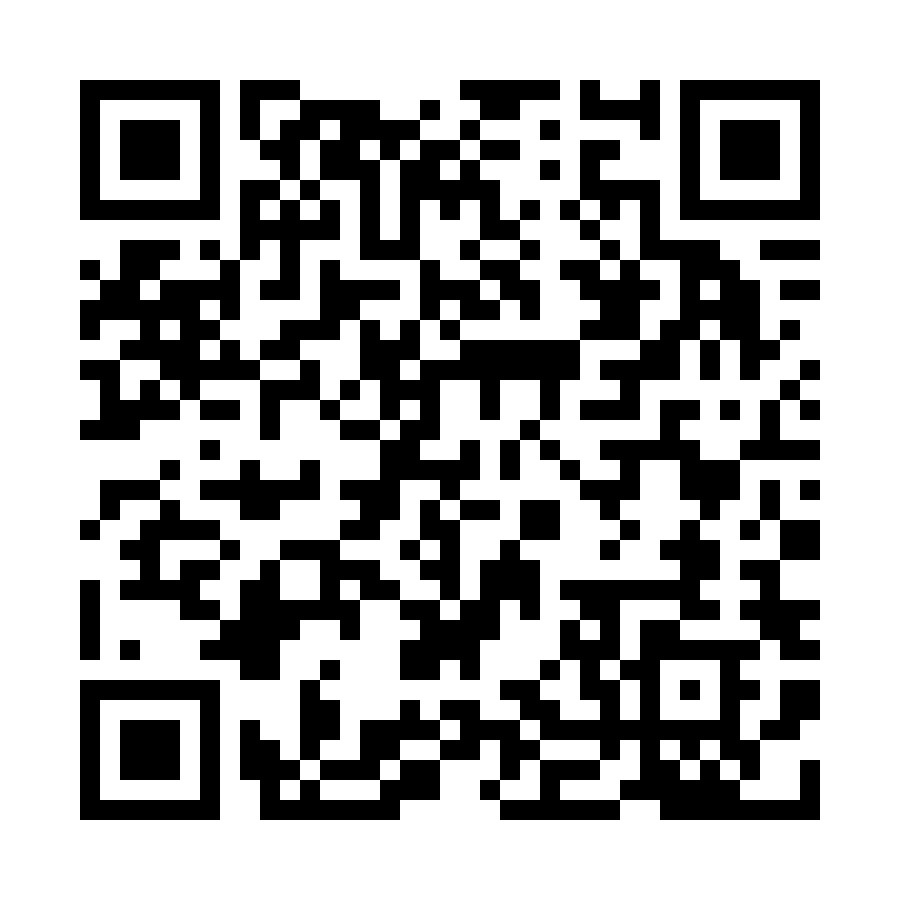
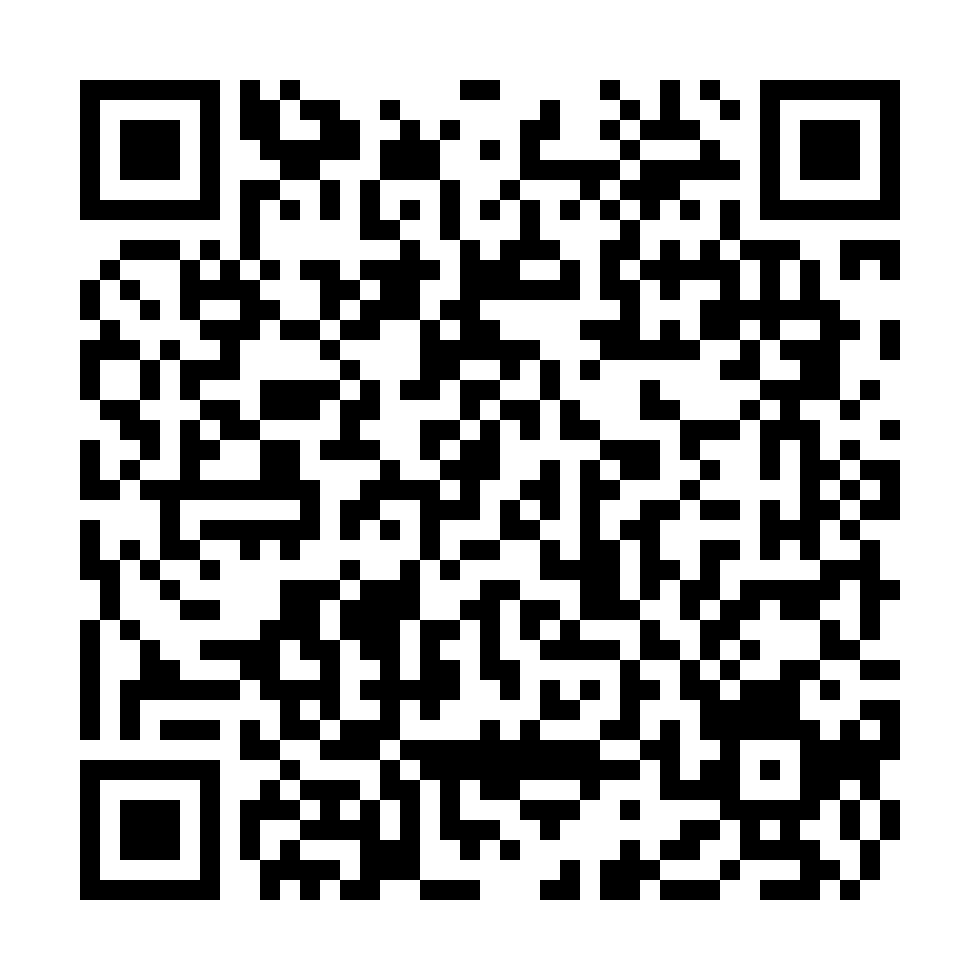
Serve optimized Android APK variants

diff --git a/resources/views/app-download.blade.php b/resources/views/app-download.blade.php
@@ -224,6 +224,18 @@
         .button:hover { transform: translateY(-2px); background: var(--blue-dark); }
         .platform-card.ios .button { background: var(--ios); box-shadow: 0 15px 28px rgba(23, 25, 35, .16); }
 
+        .button.secondary {
+            min-height: 48px;
+            margin-top: 12px;
+            background: transparent;
+            color: var(--blue-dark);
+            border: 1px solid rgba(36, 56, 218, .24);
+            box-shadow: none;
+            font-size: 14px;
+        }
+
+        .button.secondary:hover { background: rgba(36, 56, 218, .07); }
+
         .direct-link {
             margin-top: 18px !important;
             font-size: 13px;
@@ -299,15 +311,18 @@
                 <span class="status">Доступно · v{{ $androidVersion }}</span>
             </div>
             <h2>Android</h2>
-            <p>Завантажте офіційний APK безпосередньо із захищеного сервера ОМЦ.</p>
+            <p>Компактна версія для сучасних телефонів завантажується швидше. Універсальна збірка залишається для Nox і старіших пристроїв.</p>
 
-            <a class="qr-box" href="{{ $androidDownloadUrl }}" aria-label="Завантажити ОМЦ CRM для Android">
+            <a class="qr-box" href="{{ $androidRecommendedUrl }}" aria-label="Завантажити компактну версію ОМЦ CRM для Android">
                 <img src="{{ asset('images/qr/omc-android-download-qr-square.png') }}" alt="QR-код завантаження ОМЦ CRM для Android">
             </a>
 
-            <a class="button" href="{{ $androidDownloadUrl }}" download>
+            <a class="button" href="{{ $androidRecommendedUrl }}" download>
                 <span aria-hidden="true">↓</span>
-                Завантажити для Android
+                Android ARM64 · рекомендовано
+            </a>
+            <a class="button secondary" href="{{ $androidDownloadUrl }}" download>
+                Універсальна версія · Nox
             </a>
             <p class="direct-link">Постійне посилання:<a href="{{ $androidDownloadUrl }}">{{ $androidDownloadUrl }}</a></p>
         </article>

diff --git a/app/Http/Controllers/AndroidAppDownloadController.php b/app/Http/Controllers/AndroidAppDownloadController.php
@@ -2,19 +2,41 @@
 
 namespace App\Http\Controllers;
 
+use Illuminate\Http\RedirectResponse;
+use Illuminate\Http\Request;
 use Illuminate\Http\Response;
 use Symfony\Component\HttpFoundation\BinaryFileResponse;
 
 class AndroidAppDownloadController extends Controller
 {
-    public function __invoke(): BinaryFileResponse|Response
+    public function __invoke(Request $request): BinaryFileResponse|RedirectResponse|Response
     {
         $path = config('mobile.downloads.android_path');
+        $url = config('mobile.downloads.android_url');
+        $abi = strtolower((string) $request->query('abi'));
+        $variants = config('mobile.downloads.android_variants', []);
+
+        if (is_array($variants) && isset($variants[$abi]) && is_array($variants[$abi])) {
+            $variantPath = $variants[$abi]['path'] ?? null;
+            $variantUrl = $variants[$abi]['url'] ?? null;
+            if (is_string($variantPath) && is_file($variantPath) && $this->isSafeUrl($variantUrl)) {
+                $path = $variantPath;
+                $url = $variantUrl;
+            }
+        }
 
         if (! is_string($path) || ! is_file($path)) {
             return response('Актуальна Android-версія готується до публікації.', 503)
                 ->header('Content-Type', 'text/plain; charset=UTF-8')
                 ->header('Retry-After', '3600');
+        }
+
+        if ($this->isSafeUrl($url)) {
+            return redirect()->away($url)
+                ->withHeaders([
+                    'Cache-Control' => 'no-store, max-age=0',
+                    'X-Content-Type-Options' => 'nosniff',
+                ]);
         }
 
         return response()->download(
@@ -26,5 +48,14 @@ class AndroidAppDownloadController extends Controller
                 'X-Content-Type-Options' => 'nosniff',
             ],
         );
+    }
+
+    private function isSafeUrl(mixed $url): bool
+    {
+        if (! is_string($url) || filter_var($url, FILTER_VALIDATE_URL) === false) {
+            return false;
+        }
+
+        return parse_url($url, PHP_URL_SCHEME) === 'https';
     }
 }

diff --git a/tests/Feature/AndroidAppDownloadTest.php b/tests/Feature/AndroidAppDownloadTest.php
@@ -14,7 +14,11 @@ class AndroidAppDownloadTest extends TestCase
         parent::setUp();
 
         $this->apkPath = storage_path('framework/testing/omc-poltava-admin.apk');
-        config(['mobile.downloads.android_path' => $this->apkPath]);
+        config([
+            'mobile.downloads.android_path' => $this->apkPath,
+            'mobile.downloads.android_url' => null,
+            'mobile.downloads.android_variants' => [],
+        ]);
     }
 
     protected function tearDown(): void
@@ -22,6 +26,31 @@ class AndroidAppDownloadTest extends TestCase
         File::delete($this->apkPath);
 
         parent::tearDown();
+    }
+
+    public function test_android_download_redirects_to_static_litespeed_file(): void
+    {
+        File::ensureDirectoryExists(dirname($this->apkPath));
+        File::put($this->apkPath, 'test-apk');
+        config(['mobile.downloads.android_url' => 'https://omc.pl.ua/downloads/omc-poltava-admin.apk']);
+
+        $this->get('/download/android')
+            ->assertRedirect('https://omc.pl.ua/downloads/omc-poltava-admin.apk');
+    }
+
+    public function test_android_download_selects_requested_architecture(): void
+    {
+        File::ensureDirectoryExists(dirname($this->apkPath));
+        File::put($this->apkPath, 'test-apk');
+        config([
+            'mobile.downloads.android_variants.arm64-v8a' => [
+                'path' => $this->apkPath,
+                'url' => 'https://omc.pl.ua/downloads/omc-poltava-admin-arm64.apk',
+            ],
+        ]);
+
+        $this->get('/download/android?abi=arm64-v8a')
+            ->assertRedirect('https://omc.pl.ua/downloads/omc-poltava-admin-arm64.apk');
     }
 
     public function test_android_download_uses_a_stable_public_url(): void

diff --git a/config/mobile.php b/config/mobile.php
@@ -6,11 +6,29 @@ return [
             'MOBILE_ANDROID_APK_PATH',
             public_path('downloads/omc-poltava-admin.apk'),
         ),
+        'android_url' => env(
+            'MOBILE_ANDROID_APK_URL',
+            rtrim((string) env('APP_URL', 'https://omc.pl.ua'), '/').'/downloads/omc-poltava-admin.apk',
+        ),
+        'android_variants' => [
+            'arm64-v8a' => [
+                'path' => public_path('downloads/omc-poltava-admin-arm64.apk'),
+                'url' => rtrim((string) env('APP_URL', 'https://omc.pl.ua'), '/').'/downloads/omc-poltava-admin-arm64.apk',
+            ],
+            'armeabi-v7a' => [
+                'path' => public_path('downloads/omc-poltava-admin-armv7.apk'),
+                'url' => rtrim((string) env('APP_URL', 'https://omc.pl.ua'), '/').'/downloads/omc-poltava-admin-armv7.apk',
+            ],
+            'x86_64' => [
+                'path' => public_path('downloads/omc-poltava-admin-x86_64.apk'),
+                'url' => rtrim((string) env('APP_URL', 'https://omc.pl.ua'), '/').'/downloads/omc-poltava-admin-x86_64.apk',
+            ],
+        ],
         'ios_url' => env('MOBILE_IOS_DOWNLOAD_URL'),
     ],
     'updates' => [
         'android' => [
-            'latest_version' => env('MOBILE_ANDROID_LATEST_VERSION', '1.0.1'),
+            'latest_version' => env('MOBILE_ANDROID_LATEST_VERSION', '1.0.2'),
             'minimum_version' => env('MOBILE_ANDROID_MINIMUM_VERSION', '1.0.0'),
             'update_url' => env('MOBILE_ANDROID_UPDATE_URL', 'https://omc.pl.ua/download/android'),
         ],

diff --git a/tests/Feature/AppDownloadPageTest.php b/tests/Feature/AppDownloadPageTest.php
@@ -14,9 +14,11 @@ class AppDownloadPageTest extends TestCase
         $response = $this->get('/app');
 
         $response->assertOk()
-            ->assertSeeText('Завантажити для Android')
+            ->assertSeeText('Android ARM64 · рекомендовано')
+            ->assertSeeText('Універсальна версія · Nox')
             ->assertSeeText('iOS готується до публікації')
             ->assertSee(route('app.download.android'))
+            ->assertSee(route('app.download.android', ['abi' => 'arm64-v8a']))
             ->assertSee(route('app.download.ios'))
             ->assertSee(asset('images/qr/omc-android-download-qr-square.png'))
             ->assertSee(asset('images/qr/omc-ios-download-qr-square.png'));

diff --git a/app/Http/Controllers/AppDownloadController.php b/app/Http/Controllers/AppDownloadController.php
@@ -12,6 +12,7 @@ class AppDownloadController extends Controller
 
         return view('app-download', [
             'androidDownloadUrl' => route('app.download.android'),
+            'androidRecommendedUrl' => route('app.download.android', ['abi' => 'arm64-v8a']),
             'androidVersion' => config('mobile.updates.android.latest_version'),
             'iosDownloadUrl' => route('app.download.ios'),
             'iosVersion' => config('mobile.updates.ios.latest_version'),

diff --git a/tools/generate_platform_qr.php b/tools/generate_platform_qr.php
@@ -11,7 +11,7 @@ require dirname(__DIR__).'/vendor/autoload.php';
 
 $platform = $argv[1] ?? null;
 $urls = [
-    'android' => 'https://omc.pl.ua/download/android',
+    'android' => 'https://omc.pl.ua/download/android?abi=arm64-v8a',
     'ios' => 'https://omc.pl.ua/download/ios',
 ];
 
